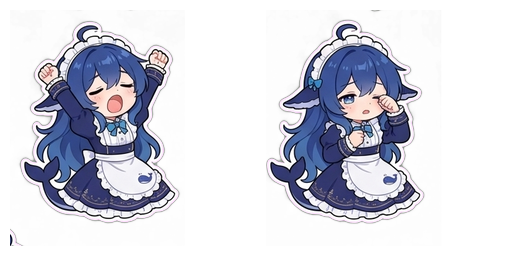
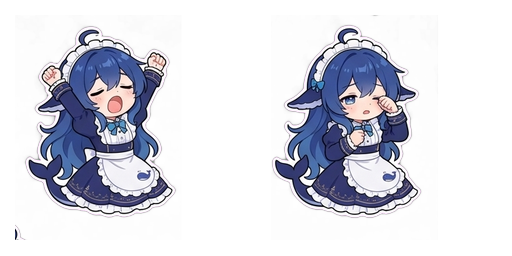
fix(assets): 边距加宽（88% 居中）+ 空间边缘强抑制
- 顶部'仍被裁'：92%→88% 居中，上边距 15~28px（更慷慨留白）
- 边缘'一点洋红'：两段式去溢色——全域(半径200) + 空间边缘带强抑制（距透明≤3px 的像素，含不透明混合残留，半径255 全覆盖）；侵蚀 2px
- 实测：纯背景污染已清零；剩余'粉调'是角色自身紫粉设计色（内部分布数百px，非背景污染），需目检定夺
- 预览 /tmp/states-v8.png；web 无崩溃、冒烟 OK

diff --git a/scripts/slice-sheet.py b/scripts/slice-sheet.py
@@ -102,9 +102,11 @@ def harden_alpha(img):
 
 
 def despill(img, bg_colors):
-    """去溢色（色键残边）：对距背景色近（<120）且洋红主导（R,B≫G）的像素做溢色抑制
-    （补 G、降 R/B），消除角色边缘洋红描边/光晕。
-    不做反解：低 alpha 像素反解 c=(c-(1-α)bg)/α 会把噪声放大成饱和色环（实测）。"""
+    """去溢色（色键残边）两段式：
+    1) 全域：距背景 <200 且粉调（sp>8）→ 中等抑制（去明显混合；角色深粉内饰 dmin≥200 不受影响）。
+    2) 边缘带补充：alpha 过渡区（20<a<245）内粉调像素，半径 255 全覆盖 + 强抑制
+       （深色角色 15~20% 混合的 dmin 可达 200~255，全域段漏网，只可能在边缘出现）。
+    只动边缘带，不动角色内饰色。"""
     import numpy as np
 
     arr = np.asarray(img.convert('RGBA'), dtype=np.float64)
@@ -113,13 +115,18 @@ def despill(img, bg_colors):
     dists = np.stack([np.linalg.norm(rgb - np.asarray(b, dtype=np.float64), axis=2) for b in bg_colors])
     dmin = np.min(dists, axis=0)
     r, g, b = rgb[:, :, 0], rgb[:, :, 1], rgb[:, :, 2]
-    sp = np.clip(np.minimum(r, b) - g, 0, 255)  # 洋红溢色量
-    # 半径 200：深色角色 + 洋红的小比例混合其距背景距离仍大（120 漏网，实测边缘仍洋红）
-    mask = (dmin < 200) & (sp > 8) & (a > 0.05)
+    sp = np.clip(np.minimum(r, b) - g, 0, 255)  # 粉调量
+    # 空间边缘带：距透明像素（α<0.08）≤3px 的像素（含不透明混合残留），与自身 alpha 无关。
+    from PIL import Image as _Image
+    from PIL import ImageFilter as _IF
+    trans = _Image.fromarray(((a < 0.08) * 255).astype(np.uint8), 'L')
+    spatial_edge = np.asarray(trans.filter(_IF.MaxFilter(7))) > 0
+    m1 = (dmin < 200) & (sp > 8) & (a > 0.05)
+    m2 = spatial_edge & (dmin < 255) & (sp > 8)
     rgb = np.stack([
-        np.where(mask, r - sp * 0.35, r),
-        np.where(mask, g + sp * 0.7, g),
-        np.where(mask, b - sp * 0.35, b),
+        np.where(m1 | m2, r - np.where(m2, sp * 0.5, sp * 0.35), r),
+        np.where(m1 | m2, g + np.where(m2, sp * 1.0, sp * 0.7), g),
+        np.where(m1 | m2, b - np.where(m2, sp * 0.5, sp * 0.35), b),
     ], axis=2)
     out = img.convert('RGBA')
     data = np.asarray(out, dtype=np.uint8).copy()
@@ -236,9 +243,9 @@ def build_state_sheet(img, row_bounds, col_bounds, row, cols, size, padding=14):
     norm = []
     for cell, _ in frames:
         f = cell.crop((x0, y0, x0 + side, y0 + side))
-        # 最终帧 = 画布留白：内容缩放至 92% 居中（角色无论多高都有 ~4% 边距，防"像被裁"）
+        # 最终帧 = 画布留白：内容缩放至 88% 居中（更慷慨的边距，显示不显局促）
         canvas = Image.new('RGBA', (size, size), (0, 0, 0, 0))
-        fsize = round(size * 0.92)
+        fsize = round(size * 0.88)
         f = f.resize((fsize, fsize), Image.LANCZOS)
         canvas.paste(f, ((size - fsize) // 2, (size - fsize) // 2), f)
         norm.append(canvas)
@@ -282,8 +289,8 @@ def main():
             bgs = [detect_bg(img)] if args.key == 'auto' else [[int(v) for v in c.split(',')] for c in args.key.split('|')]
             img = chroma_key(img, bgs, args.key_lo, args.key_hi)
             img = despill(img, bgs)  # 去边缘溢色（洋红描边）
-            img = defringe(img, erode=1)  # 侵蚀 1px 剥掉混合环 + 羽化
-            print(f'keyed: bg={bgs} lo={args.key_lo} hi={args.key_hi} +despill +defringe', file=sys.stderr)
+            img = defringe(img, erode=2)  # 侵蚀 2px 剥掉混合环 + 羽化
+            print(f'keyed: bg={bgs} lo={args.key_lo} hi={args.key_hi} +despill +defringe2', file=sys.stderr)
         if args.repair:
             img = harden_alpha(img)
             print('repair: alpha hardened', file=sys.stderr)
